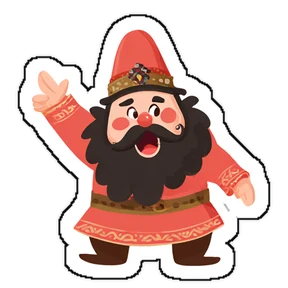
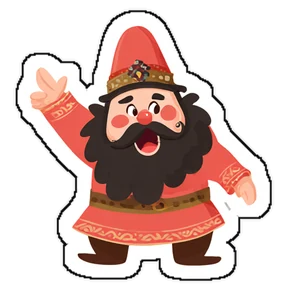
Проводники: позы подобраны заново, указывающие смотрят на облачко
order.json → poses.json: для каждой позы — фигура листа и mirror. «Рязань-ВДВ»:
«машет» и «радуется» — фигуры в полный рост. Тимофеевич без кинжала: «показывает» —
его приветствие, отзеркаленное. Умка, Стерлядь и Нерпа показывали влево — отзеркалены.

Claude-Session: https://claude.ai/code/session_01RHUBjFEk5dL7Wb72nvbSnD

diff --git a/tools/mascot_stickers.py b/tools/mascot_stickers.py
@@ -1,9 +1,11 @@
 """Проводники онбординга (ADR-011): листы Midjourney из art/mascots/ → webapp/mascots/<клуб>-<поза>.webp.
 
 Исходник — лист 2×2 `art/mascots/<клуб>.png`: один талисман в четырёх позах на сером фоне. По умолчанию
-слева вверху hello, справа вверху point, слева внизу cheer, справа внизу shrug. Midjourney перепутал
-места — настоящий порядок в art/mascots/order.json: {"<клуб>": ["cheer", "point", "hello", "shrug"]}
-(слева направо, сверху вниз). Можно положить и одну позу отдельно: `art/mascots/<клуб>-<поза>.png` —
+слева вверху hello, справа вверху point, слева внизу cheer, справа внизу shrug. Midjourney путает места
+и жесты, поэтому какая фигура листа идёт в какую позу — в art/mascots/poses.json:
+{"<клуб>": {"hello": "BL", "point": "TR mirror", ...}} — TL, TR, BL, BR: слева/справа, вверху/внизу;
+mirror — отзеркалить: в мини-аппе фигура стоит слева от облачка и показывать должна на него. Одна
+фигура может пойти в две позы. Можно положить и одну позу отдельно: `art/mascots/<клуб>-<поза>.png` —
 она заменит эту позу из листа.
 
 Фигуры не режем по четвертям: клюшки и руки заходят в соседние. Заливкой от краёв убираем серый фон
@@ -20,12 +22,13 @@ import sys
 from collections import deque
 from pathlib import Path
 
-from PIL import Image, ImageFilter
+from PIL import Image, ImageFilter, ImageOps
 
 BASE = Path(__file__).resolve().parent.parent
 SRC = BASE / "art" / "mascots"
 OUT = BASE / "webapp" / "mascots"
-ORDER = SRC / "order.json"
+LAYOUT = SRC / "poses.json"
+GRID = ("TL", "TR", "BL", "BR")
 POSES = ("hello", "point", "cheer", "shrug")
 SIZE = 288      # в 3 раза больше самого крупного показа, 84×92 на экране выбора
 WORK = 512      # маску считаем на картинке не больше этого: быстро, а край сглаживает увеличение
@@ -196,7 +199,7 @@ def figures(im: Image.Image, n: int) -> tuple[list[Image.Image], list[str]]:
     return grid, notes
 
 
-def sticker(im: Image.Image, alpha: Image.Image, side: int, dest: Path) -> int:
+def sticker(im: Image.Image, alpha: Image.Image, side: int, mirror: bool, dest: Path) -> int:
     """Вырезать фигуру по маске и поставить в квадрат side×side (по центру, ногами на нижнее поле),
     сохранить SIZE×SIZE. side общий у всех поз клуба — талисман не меняет размер от позы к позе."""
     fig = im.convert("RGBA")
@@ -222,15 +225,17 @@ def sticker(im: Image.Image, alpha: Image.Image, side: int, dest: Path) -> int:
     sq = Image.alpha_composite(out, sq)
     # Уменьшаем с учётом прозрачности, иначе по краю вылезает цвет фона
     sq = sq.convert("RGBa").resize((SIZE, SIZE), Image.LANCZOS).convert("RGBA")
+    if mirror:
+        sq = ImageOps.mirror(sq)
     sq.save(dest, "WEBP", quality=88, method=6)
     return dest.stat().st_size
 
 
 def main() -> None:
     clubs = {t["id"] for t in json.loads((BASE / "teams.json").read_text(encoding="utf-8"))}
-    order = json.loads(ORDER.read_text(encoding="utf-8")) if ORDER.exists() else {}
+    layout = json.loads(LAYOUT.read_text(encoding="utf-8")) if LAYOUT.exists() else {}
     files = sorted(p for p in SRC.iterdir() if p.suffix.lower() in EXT)
-    jobs: dict[str, dict[str, tuple[Image.Image, Image.Image]]] = {}   # клуб → поза → (картинка, маска)
+    jobs: dict[str, dict[str, tuple]] = {}   # клуб → поза → (картинка, маска, отзеркалить)
     problems = []
     # Сначала листы, потом отдельные позы поверх них
     for path in sorted(files, key=lambda p: p.stem not in clubs):
@@ -247,25 +252,27 @@ def main() -> None:
             continue
         problems += [f"{path.name}: {note}" for note in dict.fromkeys(notes)]
         if single:
-            jobs.setdefault(club, {})[pose] = (im, masks[0])
+            jobs.setdefault(club, {})[pose] = (im, masks[0], False)
             continue
-        poses = order.get(path.stem, POSES)
-        if sorted(poses) != sorted(POSES):
-            sys.exit(f"order.json: у {path.stem} должны быть ровно позы {', '.join(POSES)}")
-        jobs.setdefault(path.stem, {}).update({p: (im, m) for p, m in zip(poses, masks)})
+        for pose, default in zip(POSES, GRID):
+            place, *flag = layout.get(path.stem, {}).get(pose, default).split()
+            if place not in GRID or flag not in ([], ["mirror"]):
+                sys.exit(f"poses.json: у {path.stem} {pose} — «{place} {' '.join(flag)}», ждал TL/TR/BL/BR и mirror")
+            jobs.setdefault(path.stem, {}).setdefault(pose, (im, masks[GRID.index(place)], bool(flag)))
     if not jobs:
         sys.exit(f"В {SRC.relative_to(BASE)} нет листов <клуб>.png")
 
     OUT.mkdir(parents=True, exist_ok=True)
     for club in sorted(jobs):
         line = []
-        boxes = [m.getbbox() for _, m in jobs[club].values()]
+        boxes = [m.getbbox() for _, m, _ in jobs[club].values()]
         side = round(max(max(b[2] - b[0], b[3] - b[1]) for b in boxes) * (1 + 2 * MARGIN))
         for pose in POSES:
             if pose not in jobs[club]:
                 problems.append(f"{club}: нет позы {pose}")
                 continue
-            size = sticker(*jobs[club][pose], side, OUT / f"{club}-{pose}.webp")
+            im, mask, mirror = jobs[club][pose]
+            size = sticker(im, mask, side, mirror, OUT / f"{club}-{pose}.webp")
             line.append(f"{pose} {size // 1024} КБ")
         print(f"{club:18} " + ", ".join(line))
     print(f"Клубов: {len(jobs)} → {OUT.relative_to(BASE)}")

diff --git a/docs/adr/011-club-mascot-guide.md b/docs/adr/011-club-mascot-guide.md
@@ -151,9 +151,11 @@
 - **Форма — цвета клуба из `teams.json` → `colors`**, как у стикеров игроков. На майке ни букв,
   ни номеров: Midjourney их коверкает
 - **Фото настоящих костюмов в Midjourney не загружаем**, только описание словами
-- **Исходники** — лист `art/mascots/<клуб>.png`, серый фон. Midjourney путает места поз — настоящий
-  порядок пишем в `art/mascots/order.json`: клуб → четыре позы слева направо и сверху вниз. Нет
-  записи — порядок по умолчанию. Отдельная картинка `<клуб>-<поза>.png` заменяет позу из листа
+- **Исходники** — лист `art/mascots/<клуб>.png`, серый фон. Midjourney путает места и жесты, поэтому
+  какая фигура листа идёт в какую позу, решаем глазами и пишем в `art/mascots/poses.json`: поза →
+  место на листе (`TL`, `TR`, `BL`, `BR`) и `mirror`, если фигуру надо отзеркалить. Талисман стоит
+  слева от облачка, поэтому в `point` показывает вправо, на него. Одна фигура может пойти в две позы.
+  Отдельная картинка `<клуб>-<поза>.png` заменяет позу из листа
 - **`tools/mascot_stickers.py`** (по образцу `tools/player_kits.py`) не режет лист по четвертям:
   клюшки и руки заходят в соседние. Заливкой от краёв убирает серый фон, карманы фона между
   фигурами и мягкую тень под наклейками. Берёт четыре самые крупные фигуры и раскладывает их по

diff --git a/art/mascots/prompts.md b/art/mascots/prompts.md
@@ -18,10 +18,9 @@ GitHub есть кнопка «Скопировать».
    допишите строку позы из раздела «Починить одну позу». Остальные три фигуры не изменятся
 4. **Сохраните лист** как `art/mascots/<клуб>.png`, например `ryazan-vdv.png`. Скрипт
    `tools/mascot_stickers.py` (ADR-011) разрежет его на четыре позы
-5. **Позы стоят не на своих местах** — например, «машет» оказался внизу. Перерисовывать не нужно:
-   запишите настоящий порядок в `art/mascots/order.json`, слева направо и сверху вниз:
-   `{"ryazan-vdv": ["cheer", "point", "hello", "shrug"]}`. Для листов с порядком по умолчанию
-   ничего писать не нужно
+5. **Позы стоят не на своих местах** — например, «машет» оказался внизу, или показывает влево.
+   Перерисовывать не нужно: в `art/mascots/poses.json` у клуба записано, какая фигура листа идёт в
+   какую позу, и `mirror`, если её надо отзеркалить: `{"polet": {"hello": "BL", "point": "TR mirror", …}}`
 
 Порядок по умолчанию: слева вверху `hello` (машет), справа вверху `point` (показывает вниз — облачко тура
 стоит над меню), слева внизу `cheer` (радуется), справа внизу `shrug` (разводит руками). Все смотрят

diff --git a/CLAUDE.md b/CLAUDE.md
@@ -42,7 +42,7 @@ https://claude.ai/code/artifact/b73460ae-abd0-4c96-9670-c62615e1ffa5
 | `webapp/logos/` | Эмблемы всех 26 клубов, 200×200 PNG с прозрачным фоном, путь — поле `logo` в `teams.json` |
 | `webapp/players/` | Стикеры игроков вместо фото, 192×192 WebP: в форме клубов — `clubs/<клуб>-skater.webp` и `-goalie.webp`, общие — `skater.webp`, `goalie.webp`; исходники — `art/players/` (ADR-009) |
 | `webapp/mascots/` | Проводники онбординга: `<клуб>-<поза>.webp`, 288×288, позы `hello`, `point`, `cheer`, `shrug` (ADR-011) |
-| `art/mascots/` | Проводники онбординга (ADR-011): промпты Midjourney `prompts.md`, листы `<клуб>.png`, порядок поз на листах `order.json` |
+| `art/mascots/` | Проводники онбординга (ADR-011): промпты Midjourney `prompts.md`, листы `<клуб>.png`, какая фигура листа в какой позе — `poses.json` |
 | `tools/mascot_stickers.py` | Нарезать листы проводников из `art/mascots/` на четыре позы → `webapp/mascots/<клуб>-<поза>.webp` (руками, после новых картинок, ADR-011) |
 | `tools/player_kits.py` | Нарезать стикеры формы из `art/players/clubs/` и найти место номера на майке → `art/players/kits.json` (руками, после новых картинок) |
 | `webapp/story.html`, `webapp/stories/` | Карточки клубов для Telegram Stories и их готовые картинки (ADR-004) |
